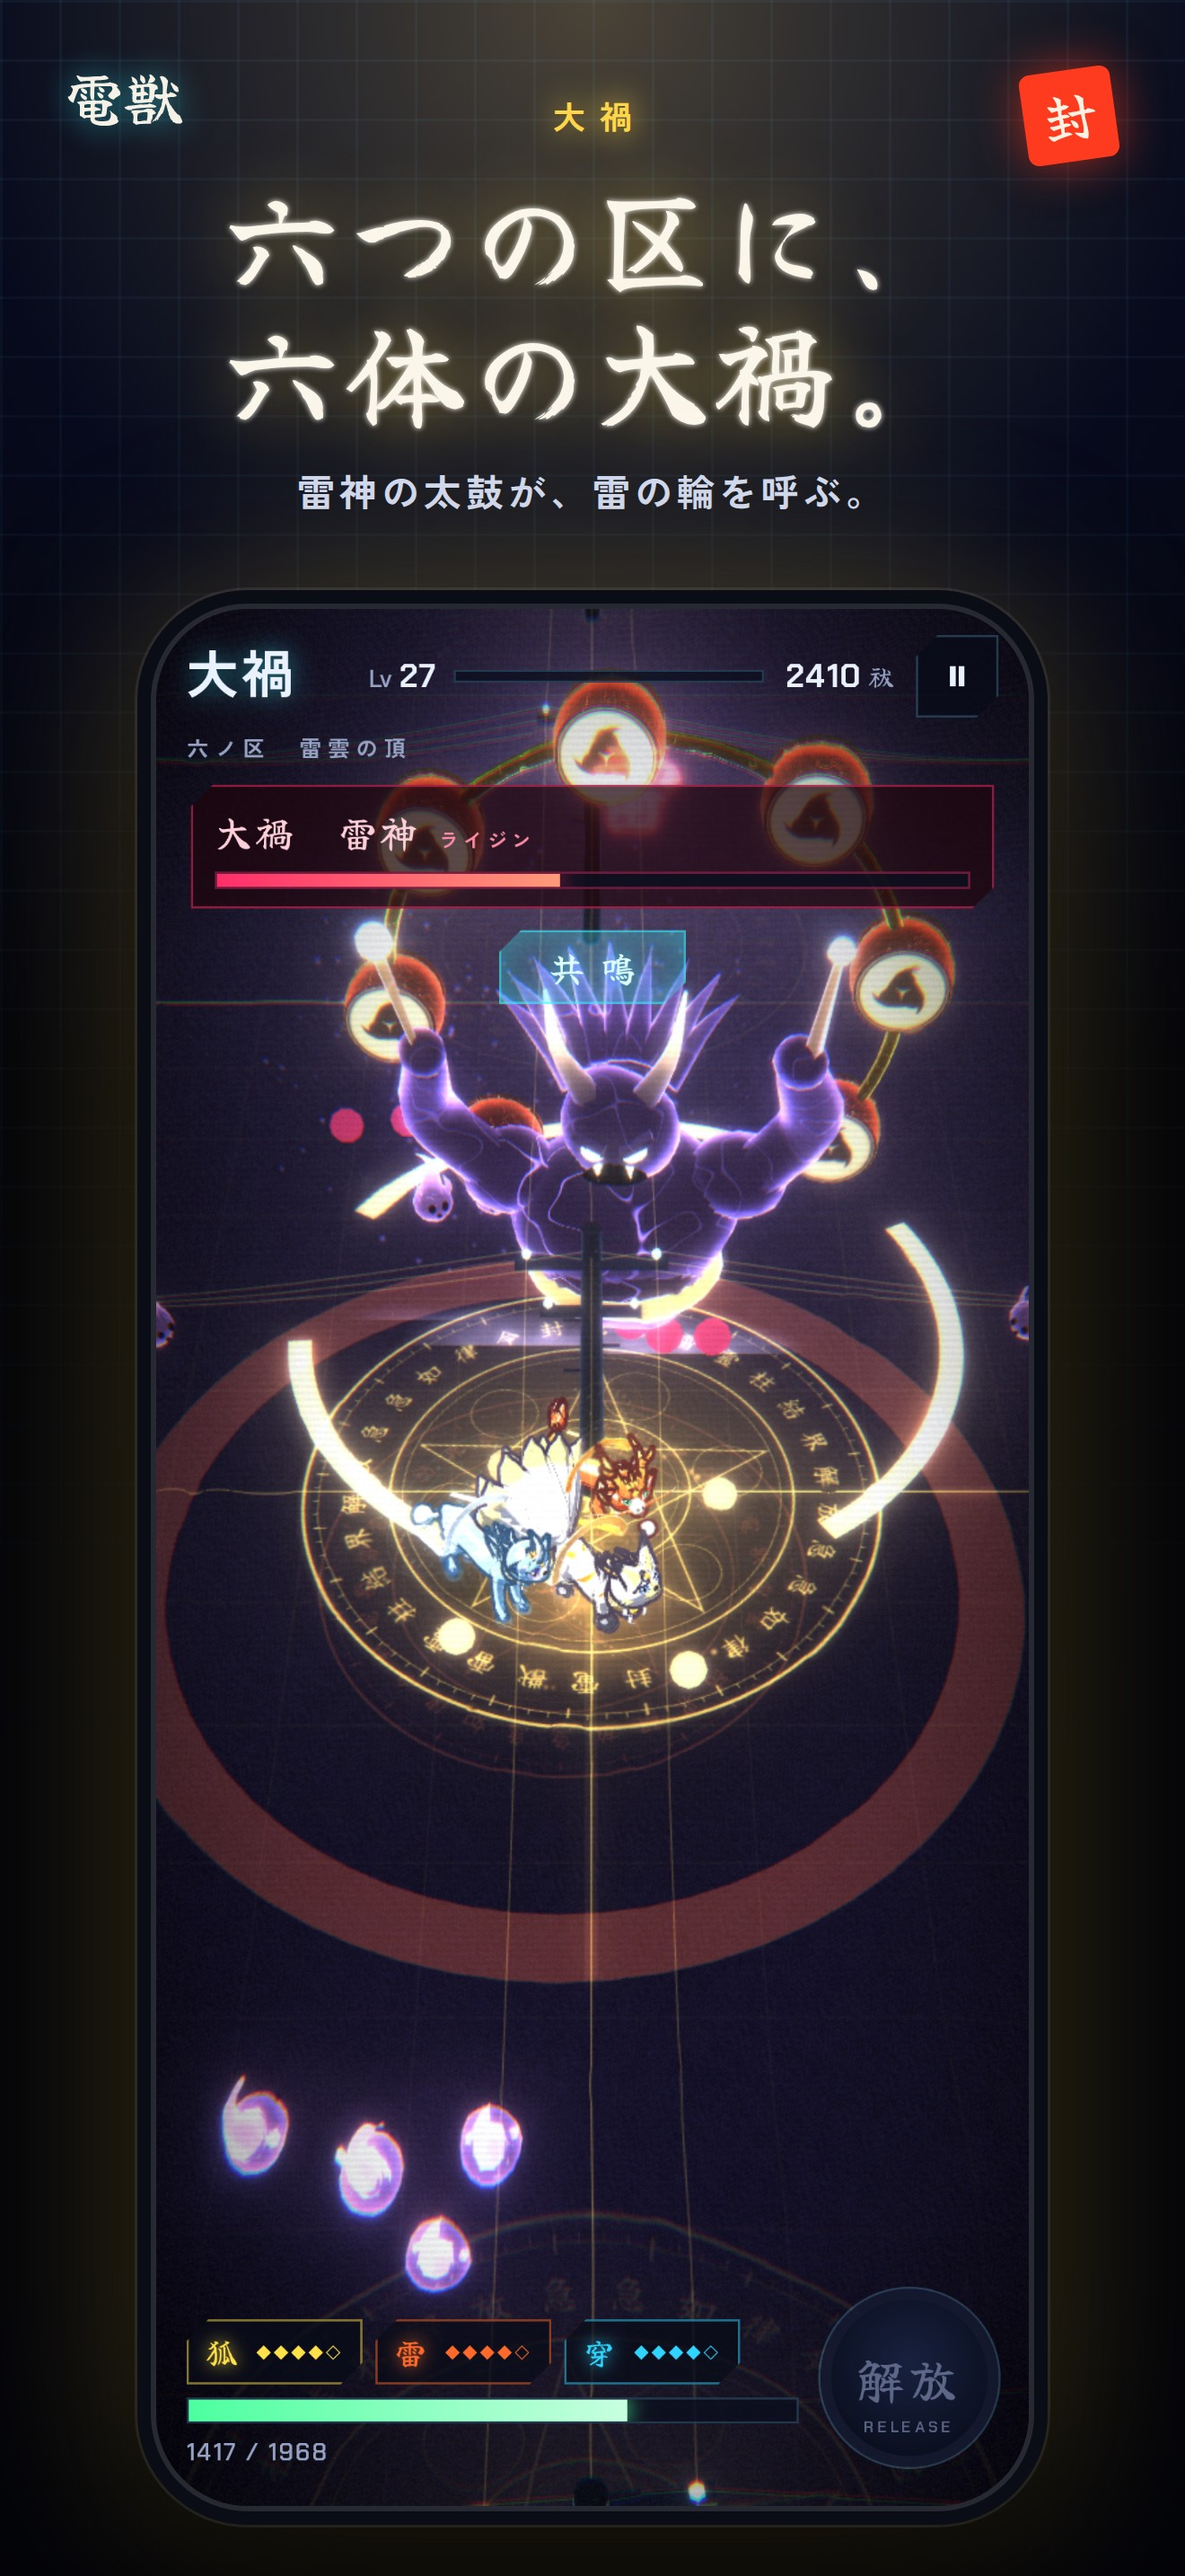
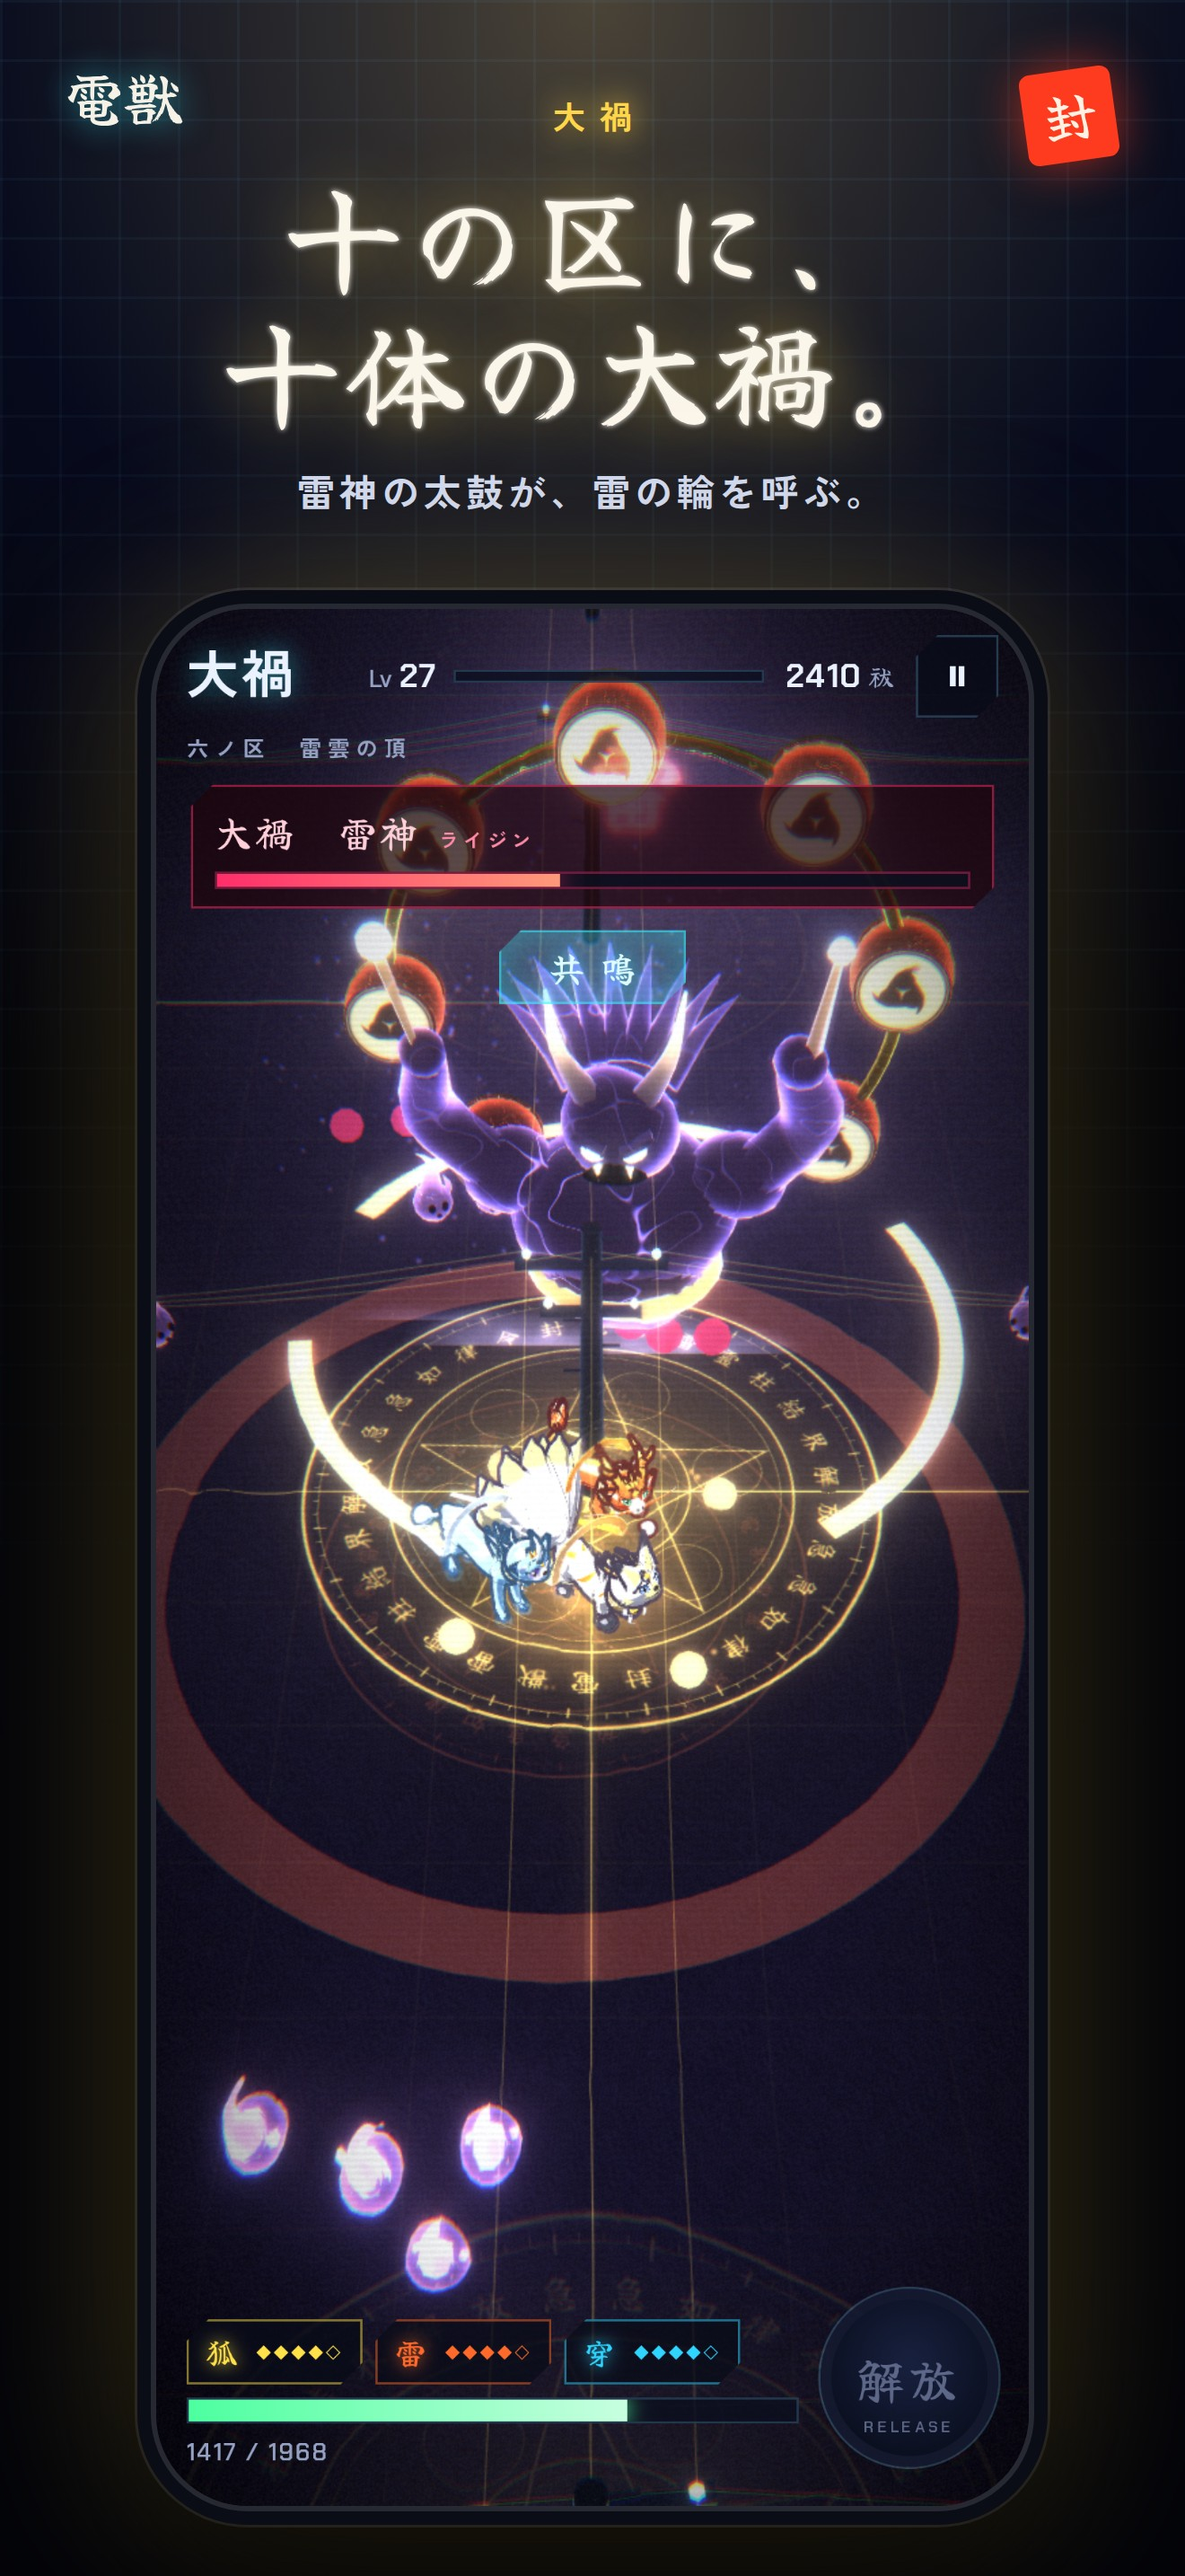
site: new screenshots

Changed region(s): [[0.1864, 0.0621, 0.6833, 0.1862], [0.7144, 0.0931, 0.7455, 0.1241]]

diff --git a/index.html b/index.html
@@ -27,7 +27,7 @@ footer{margin-top:56px;padding-block:24px 40px;border-top:1px solid var(--edge);
 <section class="hero"><img class="icon" src="img/icon.png" alt="電獣のアイコン"><div><h1>書いた言葉が、<br>電獣になる。</h1>
 <p class="lead">電線に眠る霊獣「電獣」を喚び、夜の街にあふれる怪異「ノイズ」を祓う、和風3Dサバイバーアクション。好きな言葉を札に書くと、その言葉に宿る電獣が目覚める――だれが書いても、同じ電獣。</p><span class="cta soon">App Store 配信準備中</span></div></section>
 <video class="pv" src="img/preview.mp4" poster="img/1_word.jpg" autoplay muted loop playsinline preload="metadata" aria-label="ゲームの紹介動画"></video>
-<div class="shots"><img src="img/1_word.jpg" alt="" loading="lazy"><img src="img/2_pet.jpg" alt="" loading="lazy"><img src="img/3_shiny.jpg" alt="" loading="lazy"><img src="img/4_battle.jpg" alt="" loading="lazy"><img src="img/5_ur.jpg" alt="" loading="lazy"><img src="img/6_input.jpg" alt="" loading="lazy"><img src="img/7_boss.jpg" alt="" loading="lazy"><img src="img/8_multi.jpg" alt="" loading="lazy"></div>
+<div class="shots"><img src="img/10_hk.jpg" alt="" loading="lazy"><img src="img/1_word.jpg" alt="" loading="lazy"><img src="img/2_pet.jpg" alt="" loading="lazy"><img src="img/3_shiny.jpg" alt="" loading="lazy"><img src="img/4_battle.jpg" alt="" loading="lazy"><img src="img/5_ur.jpg" alt="" loading="lazy"><img src="img/6_input.jpg" alt="" loading="lazy"><img src="img/7_boss.jpg" alt="" loading="lazy"><img src="img/8_multi.jpg" alt="" loading="lazy"><img src="img/9_ch2.jpg" alt="" loading="lazy"></div>
 <h2>言霊召喚</h2><p>自分の名前、推しの名前、今日の晩ごはん。言葉ごとに決まった電獣が現れます。「○○って書いたら稀の五尾が出た」をシェアしよう。</p>
 <h2>遊び方</h2><div class="feat"><div><b>今日の言霊</b>毎日ひとつ、みんなに同じ言葉が出る。今日の言葉からは、どんな電獣が目覚める？</div><div><b>言霊の相性</b>ふたつの言葉（名前でも）に宿る電獣の相性をみる。わかるのは属性と種族の影だけ。</div><div><b>由来と待ち受け</b>電獣それぞれに、生まれと性格を語る「由来」がある。お気に入りは待ち受け画像にもできる。</div><div><b>指一本</b>ドラッグで移動、技は自動。1回3分前後。区ごとに弱点の属性がある。</div><div><b>覚醒</b>強化を選んで技を進化させ、画面を雷で埋めつくす。</div><div><b>なかよしと昇格</b>拠点で電獣をタップすると、なでられる。毎日なでると「なかよし」が上がり、Lv30・♥5で昇格。子どもの姿から凛々しい姿へ育つ。名前もつけられる。</div><div><b>色違い</b>札や言葉ごとに決まった、まれな色の電獣。黒漆、桜、金、藤、月白。</div><div><b>25種×4階級</b>狐・狼・麒麟・龍・鳳 × 5属性。雷は白磁、焔は朱漆、蒼は氷、翠は翡翠、冥は墨。神の狐は九尾に。</div><div><b>妖の群れ</b>ノイズは人魂・鎌鼬・鬼・提灯お化け・鎧武者の姿で押し寄せる。妖は形で見分けられる。</div><div><b>10の区と大禍</b>駅前から雷雲の頂までの第一章と、終電の駅・電波塔・水没区・常世の第二章。区ごとの仕掛けと、姿も攻撃もちがう大禍が待つ。</div><div><b>百鬼夜行</b>毎週かわる区と異変で、大禍が次々に現れる夜をどこまで生きのびられるか。全員おなじ条件で記録をくらべる。</div><div><b>深度と異変</b>浄化した区は、深度を上げてさらに強いノイズへ。条件つきの「異変」にも挑める。</div></div>
 <footer><a href="terms.html">利用規約</a><a href="privacy.html">プライバシーポリシー</a><a href="tokushoho.html">特定商取引法に基づく表記</a><a href="fund.html">資金決済法に基づく表示</a><a href="odds.html">提供割合</a><a href="support.html">サポート</a><p>© 2026 サン楽</p></footer></div></body></html>

diff --git a/support.html b/support.html
@@ -30,6 +30,8 @@ footer{margin-top:56px;padding-block:24px 40px;border-top:1px solid var(--edge);
 <h3>言霊の相性</h3><p>言霊召喚の画面の「ふたつの言霊の相性をみる」から、ふたつの言葉（名前でも）に宿る電獣の相性をみられます。わかるのは属性と種族の影だけで、召喚の回数は使いません。結果は遊びのための占いです。</p>
 <h3>図譜と朱印</h3><p>電獣帳の図譜は、5種族×5属性の25種です。属性の列・種族の列・25種すべてがそろうと、電獣帳に朱印が押されます（記念の印で、召喚符や力はもらえません）。</p>
 <h3>百鬼夜行（週替わり）</h3><p>三ノ区を浄化すると開きます。毎週月曜の朝4時に、区と2つの異変（難しくなるもの・助けになるもの）が変わります。全員おなじ条件なので、何分生きのびたかをくらべられます。2分30秒から100秒ごとに大禍があらわれ、時間とともにノイズは強くなります。今週はじめて3分・5分・7分・10分を超えると報酬があります。</p>
+<h3>合体技</h3><p>ひとつの出撃で、ちがう技を2つ覚醒させると「合体技」が生まれます（10通り）。どの組み合わせで何が起きるかは、試してのお楽しみ。</p>
+<h3>護符</h3><p>霊箱のうち半分と、百鬼夜行で大禍を祓ったときの霊箱からは、3つの護符から1つを選べます。護符はその出撃のあいだ効きます（雷雲符・狐火符・招福符・鈴守・身代わり符・韋駄天符・結界符・冴え符・吸魂符・八咫符）。</p>
 <h3>異変に挑む</h3><p>浄化した区では、条件つきの「異変」に挑めます（区ごとに2つ。深度はつきません）。はじめて乗りこえると召喚符×2。</p>
 <h3>偉業</h3><p>「今日の任務」の横のタブにあります。ノイズを祓った数、大禍を祓った数、深度、百鬼夜行の時間などで、一度きりの報酬を受け取れます。特定の電獣をそろえることや、有料の召喚の回数は条件にしていません。</p>
 <h3>第二章の区</h3><p>六ノ区を浄化すると、第二章（七ノ区〜十ノ区）が開きます。区ごとに仕掛けがあります。</p><ul><li>終電（七ノ区）：赤く光った線路を電車が走り抜けます。線路から離れて。巻きこまれたノイズは一掃されます</li><li>砂嵐（八ノ区）：中にいると技が遅くなります。電柱のそばで共鳴していれば平気です</li><li>満ち潮（九ノ区）：潮が満ちると足が重くなります。電柱のまわりの足場なら平気です</li><li>黄泉がえり（十ノ区）：倒したノイズが一度だけよみがえることがあります。電柱のそばで倒せば、よみがえりません</li></ul>
